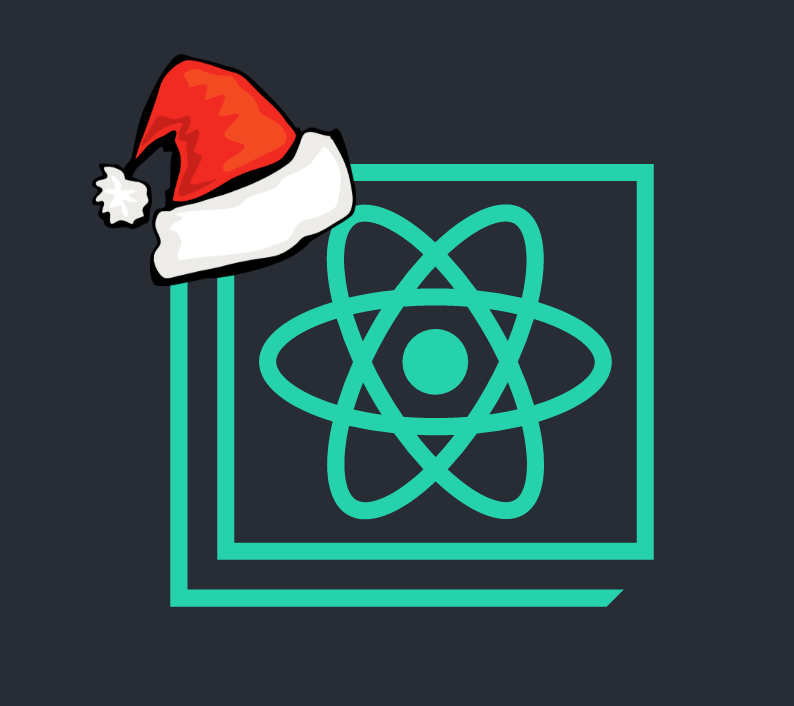
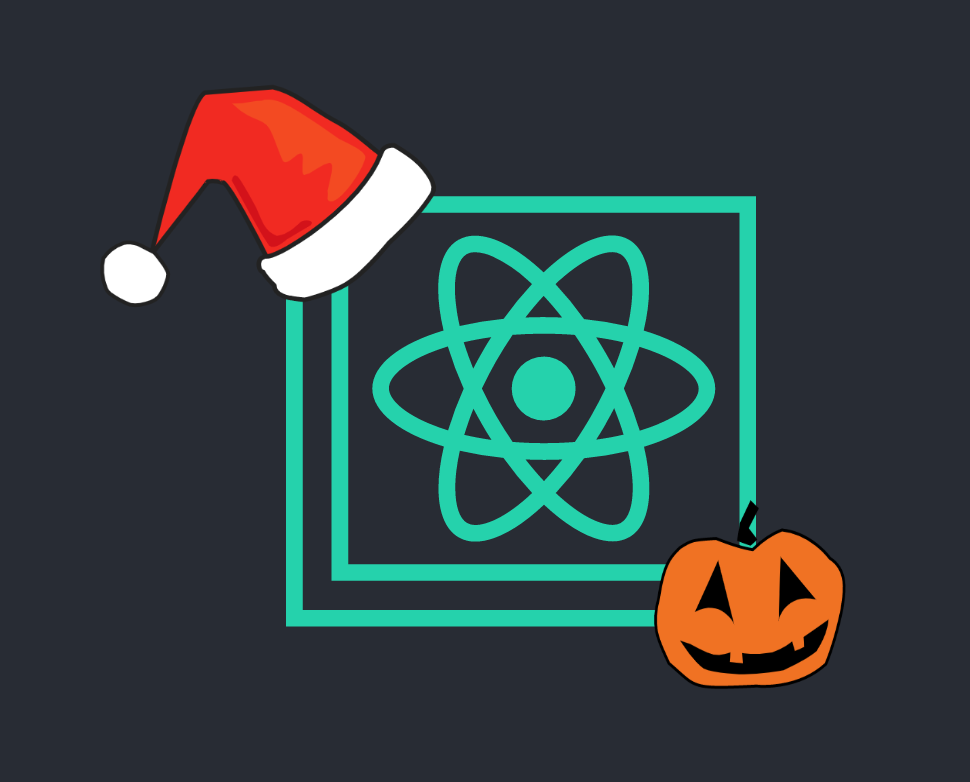
Add index.html for github pages

Changed region(s): [[0.0907, 0.0623, 0.8766, 0.9037]]

diff --git a/index.html b/index.html
@@ -1,0 +1,29 @@
+<!DOCTYPE html>
+<html lang="en">
+
+<head>
+    <meta charset="UTF-8">
+    <title>HappyHoldiay Demo</title>
+    <script src="dist/happyHoliday.min.js"></script>
+    <style>
+        body {
+            padding: 10px 50px;
+        }
+
+        h1 {
+            font-size: 50px;
+        }
+    </style>
+</head>
+
+<body>
+    <script>
+        happyHoliday({ top: '40px', left: '8px' });
+    </script>
+    <h1>Happy Holiday</h1>
+    <h2>Add a holiday's logo to the site</p>
+        <h3>Check out the <a href="https://github.com/annmirosh/happy-holiday">Docs</a> for more info.
+    </h2>
+</body>
+
+</html>
